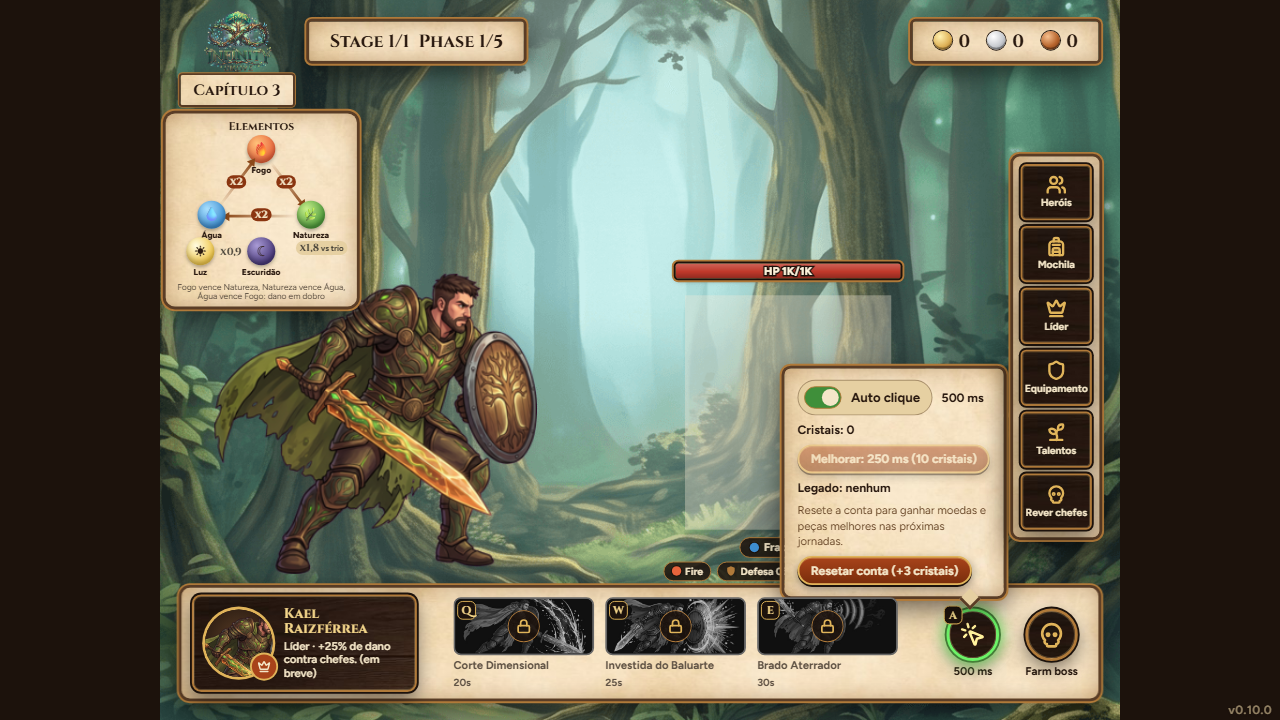
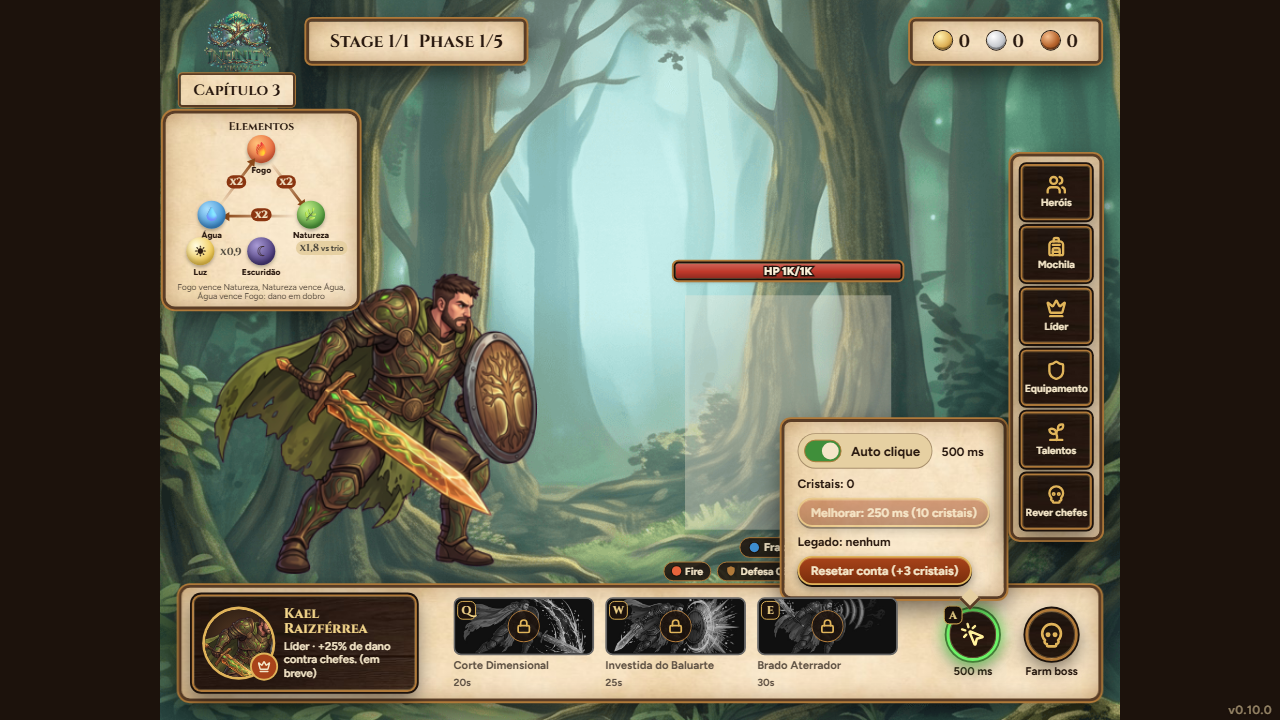
docs(ui): rejudge the legacy line window after the detail row left

Changed region(s): [[0.5938, 0.4889, 0.8125, 0.7639]]

diff --git a/.specs/features/reset-legacy-drops/ui-review.html b/.specs/features/reset-legacy-drops/ui-review.html
@@ -108,12 +108,12 @@ footer { color: var(--sage-soft); text-align: center; font-size: 13px; opacity: 
             <div>
                 <h1>Linhas do legado de reset</h1>
                 <div class="meta">
-                    <code>.specs/features/reset-legacy-drops</code> · commits <code>171f5184</code> · 2026-11-26 · local (Playwright, GET /account/legacy simulado)
+                    <code>.specs/features/reset-legacy-drops</code> · commits <code>171f5184</code>, <code>e82584e5</code> (T12) · 2026-11-26 · local (Playwright, GET /account/legacy simulado)
                 </div>
             </div>
             <span class="chip verdict ok">APROVADO</span>
         </div>
-        <p style="margin-top:16px">A linha "Legado: …" com seu detalhe na janela do auto clique e a linha do diálogo de reset (casos A, B e C) seguem a spec e o design: texto inteiro, sem corte, hierarquia clara (negrito escuro na linha, tom mais claro no detalhe, brasa em negrito no diálogo) e mesma paleta do jogo. Sem legado, a janela mostra "Legado: nenhum" com a dica; com o endpoint fora do ar, nada aparece.</p>
+        <p style="margin-top:16px">Revisão refeita depois do T12 (<code>e82584e5</code>), que tirou a linha de detalhe da janela do auto clique: agora a janela mostra só a linha "Legado: …" (13 px, negrito, tinta escura), e o detalhe virou o tooltip (<code>title</code>) da linha. A linha cabe inteira nos 240 px (a mais longa, "Legado: 100% do capítulo 5", ocupa cerca de 150 px), tem o mesmo ritmo de espaçamento das linhas vizinhas e a janela, mais baixa, fica abaixo do centro do monstro. O diálogo de reset (casos A, B e C) não mudou. Sem legado, a janela mostra "Legado: nenhum"; com o endpoint fora do ar, nada aparece.</p>
         <div class="stats">
             <div class="stat"><div class="n">8</div><div class="l">telas e estados verificados</div></div>
             <div class="stat"><div class="n">8</div><div class="l">capturas (desktop)</div></div>
@@ -125,8 +125,8 @@ footer { color: var(--sage-soft); text-align: center; font-size: 13px; opacity: 
     <section class="panel">
         <h2>Fidelidade à spec</h2>
         <ul class="checks">
-            <li class="yes"><span class="mark">✓</span><span>Linha "Legado: nenhum" / "Legado: &lt;p&gt;% do capítulo &lt;c&gt;" e detalhe na janela, acima de Resetar conta <code>spec § Player-Facing Texts</code></span></li>
-            <li class="yes"><span class="mark">✓</span><span>Textos do detalhe com e sem legado, exatamente como na spec <code>spec § Player-Facing Texts</code></span></li>
+            <li class="yes"><span class="mark">✓</span><span>Linha "Legado: nenhum" / "Legado: &lt;p&gt;% do capítulo &lt;c&gt;" na janela, acima de Resetar conta <code>spec § Player-Facing Texts</code></span></li>
+            <li class="yes"><span class="mark">✓</span><span>Detalhe com e sem legado fora da janela, só como tooltip (<code>title</code>) da linha, por decisão do dono em 2026-11-26 (T12); o texto do tooltip segue a spec <code>spec § Player-Facing Texts</code></span></li>
             <li class="yes"><span class="mark">✓</span><span>Linha do diálogo nos casos A, B e C com os textos da spec <code>RLD-06 AC 3 a 5</code></span></li>
             <li class="yes"><span class="mark">✓</span><span>Linha do diálogo em 15 px brasa (--ember-800) entre a pergunta e os botões, dentro do cartão de 420 px <code>design § Layout</code></span></li>
             <li class="yes"><span class="mark">✓</span><span>Janela mostra o legado da resposta do reset sem recarregar <code>RLD-06 AC 6</code></span></li>
@@ -144,7 +144,7 @@ footer { color: var(--sage-soft); text-align: center; font-size: 13px; opacity: 
                     <a href="ui-review/01-window-no-legacy-desktop.png" target="_blank"><img src="ui-review/01-window-no-legacy-desktop.png" alt="Janela do auto clique, sem legado" loading="lazy"></a>
                     <figcaption>
                         <span class="t">Janela do auto clique, sem legado</span>
-                        <span class="d">Capítulo 3, sem legado: "Legado: nenhum" e a dica em 12 px acima de Resetar conta; sem corte, dentro dos 240 px.</span>
+                        <span class="d">Capítulo 3, sem legado: só a linha "Legado: nenhum" acima de Resetar conta, sem linha de detalhe; cabe nos 240 px e a janela, mais baixa, deixa o monstro livre.</span>
                         <span class="tags"><span class="chip vp">Desktop 1280×720</span><span class="chip ok">ok</span></span>
                     </figcaption>
                 </figure>
@@ -152,7 +152,7 @@ footer { color: var(--sage-soft); text-align: center; font-size: 13px; opacity: 
                     <a href="ui-review/02-window-legacy-100-ch5-desktop.png" target="_blank"><img src="ui-review/02-window-legacy-100-ch5-desktop.png" alt="Janela com legado de 100% do capítulo 5" loading="lazy"></a>
                     <figcaption>
                         <span class="t">Janela com legado de 100% do capítulo 5</span>
-                        <span class="d">Linha em negrito e detalhe em 4 linhas, em cor mais clara; o botão Resetar conta continua inteiro e visível.</span>
+                        <span class="d">Só a linha em negrito, sem detalhe; janela de 192 px de altura, abaixo do centro do monstro; Resetar conta inteiro e visível.</span>
                         <span class="tags"><span class="chip vp">Desktop 1280×720</span><span class="chip ok">ok</span></span>
                     </figcaption>
                 </figure>
@@ -160,7 +160,7 @@ footer { color: var(--sage-soft); text-align: center; font-size: 13px; opacity: 
                     <a href="ui-review/02b-window-legacy-popover-desktop.png" target="_blank"><img src="ui-review/02b-window-legacy-popover-desktop.png" alt="Janela com legado, recorte" loading="lazy"></a>
                     <figcaption>
                         <span class="t">Janela com legado, recorte</span>
-                        <span class="d">Recorte da janela para ver o contraste da linha (tinta escura) e do detalhe (tinta média) sobre o pergaminho.</span>
+                        <span class="d">Recorte da janela para ver o contraste da linha (tinta escura) sobre o pergaminho e a sua largura dentro dos 240 px.</span>
                         <span class="tags"><span class="chip vp">Desktop 1280×720</span><span class="chip ok">ok</span></span>
                     </figcaption>
                 </figure>
@@ -192,7 +192,7 @@ footer { color: var(--sage-soft); text-align: center; font-size: 13px; opacity: 
                     <a href="ui-review/06-window-after-reset-desktop.png" target="_blank"><img src="ui-review/06-window-after-reset-desktop.png" alt="Janela depois do reset" loading="lazy"></a>
                     <figcaption>
                         <span class="t">Janela depois do reset</span>
-                        <span class="d">Sem recarregar: linha "Legado: 50% do capítulo 3" e detalhe atualizados; aviso "+3 cristais" visível.</span>
+                        <span class="d">Sem recarregar: linha "Legado: 50% do capítulo 3" atualizada; aviso "+3 cristais" visível; sem o botão Resetar conta (capítulo 1), a janela fica ainda mais baixa.</span>
                         <span class="tags"><span class="chip vp">Desktop 1280×720</span><span class="chip ok">ok</span></span>
                     </figcaption>
                 </figure>
@@ -200,7 +200,7 @@ footer { color: var(--sage-soft); text-align: center; font-size: 13px; opacity: 
                     <a href="ui-review/07-window-no-endpoint-desktop.png" target="_blank"><img src="ui-review/07-window-no-endpoint-desktop.png" alt="Janela com o endpoint fora do ar (404)" loading="lazy"></a>
                     <figcaption>
                         <span class="t">Janela com o endpoint fora do ar (404)</span>
-                        <span class="d">Nenhuma linha de legado; Resetar conta continua como antes.</span>
+                        <span class="d">Nenhuma linha de legado; Resetar conta continua como antes (recaptura depois do T12).</span>
                         <span class="tags"><span class="chip vp">Desktop 1280×720</span><span class="chip ok">ok</span></span>
                     </figcaption>
                 </figure>
@@ -216,7 +216,7 @@ footer { color: var(--sage-soft); text-align: center; font-size: 13px; opacity: 
     <section class="panel">
         <h2>Sugestões</h2>
         <ul class="checks">
-            <li><span class="mark">✦</span><span>O detalhe com legado ocupa 4 linhas e deixa a janela mais alta (cresce para cima, sem tocar o botão do auto clique); se vierem mais linhas, vale encurtar o texto.</span></li>
+            <li><span class="mark">✦</span><span>Com o detalhe só no tooltip, quem joga com o mouse o descobre ao passar sobre a linha, mas nada indica que ele existe; um cursor de ajuda (<code>cursor: help</code>) na linha deixaria isso discreto e claro. Não bloqueia.</span></li>
         </ul>
     </section>
 
